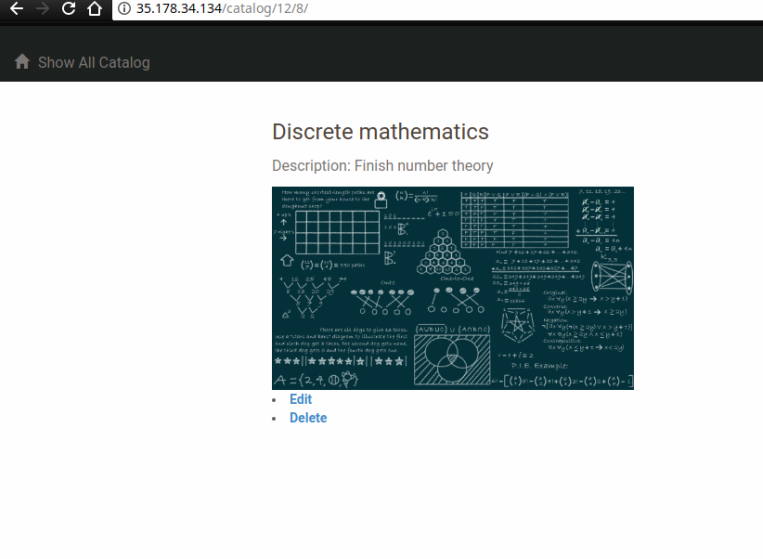
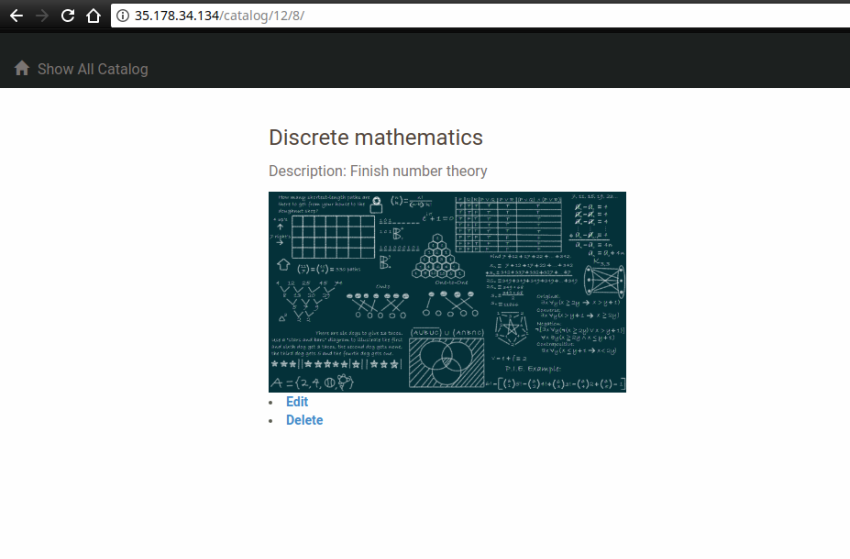
Modified the images sizez

Changed region(s): [[0.3014, 0.2129, 0.844, 0.7603], [0.0, 0.0912, 1.0, 0.1825], [0.0, 0.0, 1.0, 0.0608]]

diff --git a/index.html b/index.html
@@ -27,17 +27,18 @@
       </div>
     </header>
     <div class="hero">
-        <img class="bi-image" src="img/planets.jpg"  alt=" Binary Numbers">
+        <img class="hero" src="img/planets.jpg"  alt=" Binary Numbers">
     </div>
-</div>
 
-    
-     <section class="projects-container">	
-      <h2 class="projects-title">Featured Work</h2>
-      <div class="projects-list">
-        
-        <div class="project">
-          <article class="project-card">
+
+     <div class="row">
+	
+      <h2 class="projects-title ">Featured Work</h2>
+   
+        <section class="project-card">
+
+        <div class="col-lg-4 col-md-6 mb-4">
+              <div class="card h-100">
             <img class="project-img" src="img/movie.png" alt="Movie Trailer">
             <h3 class="project-name">Movie Trailer</h3>
             <p class="project-description">
@@ -45,11 +46,11 @@
             </p>
             <p class="project-link"><i class="fa fa-github fa-lg" aria-hidden="true"></i>
             <a href="https://github.com/basmaashouur/full-stack-udacity/tree/master/project1" target="_blank" class="github-link">View on GitHub</a></p>
-          </article>
+          </div>
         </div>
 
-        <div class="project">
-          <article class="project-card">
+        <div class="col-lg-4 col-md-6 mb-4">
+              <div class="card h-100">
             <img class="project-img" src="img/catalog.png" alt="Catalog Application">
             <h3 class="project-name">Catalog Application</h3>
             <p class="project-description">
@@ -57,11 +58,11 @@
             </p>
             <p class="project-link"><i class="fa fa-github fa-lg" aria-hidden="true"></i>
             <a href="https://github.com/basmaashouur/full-stack-udacity/tree/master/project4" target="_blank" class="github-link">View on GitHub</a></p>
-          </article>
+          </div>
         </div>
 
-        <div class="project">
-          <article class="project-card">
+        <div class="col-lg-4 col-md-6 mb-4">
+              <div class="card h-100">
             <img class="project-img" src="img/por.png" alt="Illustration project 3">
             <h3 class="project-name">Build a Portfolio Site</h3>
             <p class="project-description">
@@ -69,11 +70,22 @@
             </p>
             <p class="project-link"><i class="fa fa-github fa-lg" aria-hidden="true"></i>
             <a href="https://github.com/basmaashouur/full-stack-udacity/tree/master/project2" target="_blank" class="github-link">View on GitHub</a></p>
-          </article>
+          </div>
         </div>
 
+        </section>
+
       </div>
-    </section>
+          <!-- /.row -->
+
+        </div>
+        <!-- /.col-lg-12 -->
+
+      </div>
+      <!-- /.row -->
+
+    </div>
+    <!-- /.container -->
 
     <footer class="footer">
       <p>Copyright © 2018-2019 Basma Ashour</p>

diff --git a/css/site.css b/css/site.css
@@ -61,15 +61,8 @@ a.github-link:hover {
 
 .hero {
   margin-bottom: 30px;
-}
-
-.projects-container {
-  margin-bottom: 20px;
-}
-
-.projects-list {
-  display: flex;
-  flex-flow: column wrap;
+  width: 100%;
+  height: auto;
 }
 
 .projects-title {
@@ -77,11 +70,7 @@ a.github-link:hover {
 }
 
 .project-card {
-  border: 1px solid #c0c0c0;
-  box-shadow: 2px 2px 4px 0 rgba(0,0,0,0.12);
-  max-width: 380px;
   text-align: center;
-  margin: 0 auto;
 }
 
 .project-name {
@@ -113,14 +102,6 @@ a.github-link:hover {
   text-align: center;
 }
 
-.credits {
-  font-size: 14px;
-  padding-top: 6px;
-}
-
-.credits a {
-  color: #80774c;
-}
 
 
 /**************************************************
@@ -149,20 +130,8 @@ a.github-link:hover {
     margin-bottom: 20px;
   }
 
-  .projects-container {
-    padding: 0 16px;
-  }
-
-  .project {
-    padding-bottom: 10px;
-  }
-
   .projects-title {
     font-size: 22px;
-  }
-
-  .project-card {
-    min-height: 380px;
   }
 
   .project-link {
@@ -195,22 +164,8 @@ a.github-link:hover {
   .title {
     font-size: 18px;
   }
-
-  .projects-container {
-    padding: 0 20px;
-  }
-
-  .projects-list {
-    flex-flow: row wrap;
-    justify-content: space-between;
-  }
-
   .projects-title {
     font-size: 28px;
-  }
-
-  .project {
-    width: calc(50%);
   }
 
 }
@@ -240,25 +195,12 @@ a.github-link:hover {
     font-size: 20px;
   }
 
-  .projects-container {
-    width: 1100px;
-    padding: 0;
-  }
-
-  .project {
-    width: calc(33.3333% - 16px);
-  }
-
-  .projects-title {
-    font-size: 36px;
-  }
-
-  .project-card {
-    height: 400px;
-  }
-
   .project-name {
     font-size: 24px;
+  }
+
+   .projects-title {
+    font-size: 32px;
   }
 
   .project-description,
